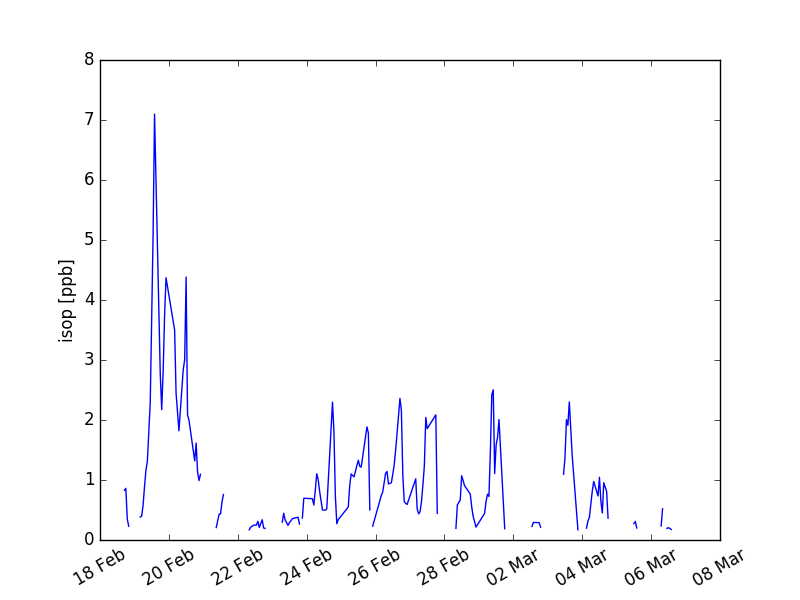
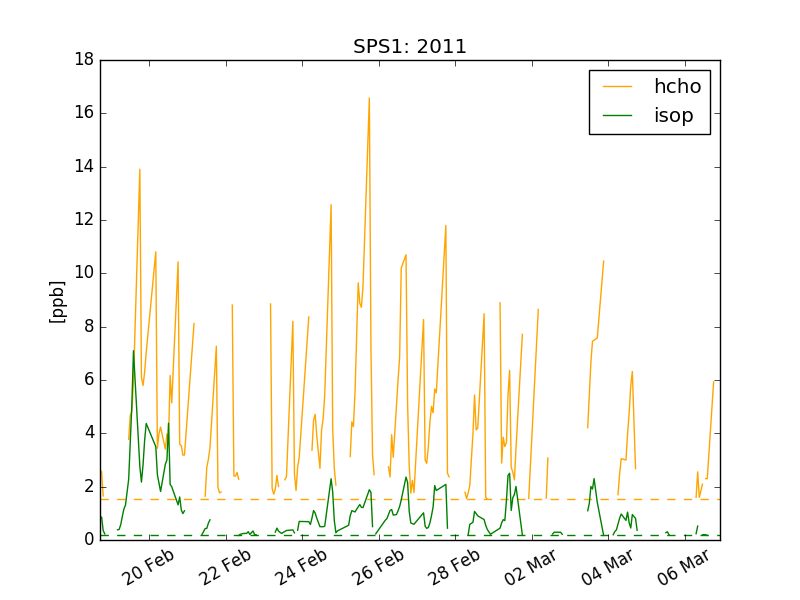
Updated SPS plots, now does SPS2

diff --git a/classes/campaign.py b/classes/campaign.py
@@ -48,15 +48,15 @@ class campaign:
         self.hcho_detection_limit=np.NaN
         self.isop_detection_limit=np.NaN
 
-    def read_SPS1(self):
+    def read_SPS(self, number=1):
         '''
-            Read the sps 1 dataset
+            Read the sps1 or sps2 dataset
             # Measurements are reported in local time (UTC+10)
             # units are unlisted in the doi
         '''
 
         # TODO: remove ../ when not testing any more
-        self.fpath='../Data/campaigns/SPS1/SPS1_PTRMS.csv'
+        self.fpath='../Data/campaigns/SPS%d/SPS%d_PTRMS.csv'%(number,number)
         data=fio.read_csv(self.fpath)
         # PTRMS names the columns with m/z ratio, we use
         #   HCHO = 31, ISOP = 69
@@ -64,13 +64,14 @@ class campaign:
         i_key='m/z 69'
 
         # First row is detection limits
-
         self.hcho_detection_limit=float(data[h_key][0])
         self.isop_detection_limit=float(data[i_key][0])
-        # second row is empty
-        # data begins at third row, last row is empty
-        hcho=np.array(data[h_key][2:-1])
-        isop=np.array(data[i_key][2:-1])
+        
+        # second row is empty in sps1
+        # last row is empty
+        start=[1,2][number==1]
+        hcho=np.array(data[h_key][start:-1])
+        isop=np.array(data[i_key][start:-1])
 
         # convert from strings to floats
         hcho[hcho=='<mdl'] = 'NaN'
@@ -78,8 +79,9 @@ class campaign:
         isop[isop=='<mdl'] = 'NaN'
         self.isop = isop.astype(np.float)
 
+        self.dates=[]
         # Convert strings to dates:
-        for date in data['Timestamp'][2:-1]:
+        for date in data['Timestamp'][start:-1]:
             #if date == '':
             #    self.dates.append(np.NaN)
             #else:
@@ -91,7 +93,7 @@ class campaign:
         #self.dates=[datetime.strptime('%d/%m/%Y %H',d) for d in dates]
 
         #print(data)
-    def plot_series(self,pname):
+    def plot_series(self,title,pname):
 
         dates=self.dates
 
@@ -99,14 +101,19 @@ class campaign:
             data=getattr(self,key)
             dlim=getattr(self,key+'_detection_limit')
             #plot_time_series(datetimes,values,ylabel=None,xlabel=None, pname=None, legend=False, title=None, xtickrot=30, dfmt='%Y%m', **pltargs)
-            pp.plot_time_series(dates, data, ylabel='[ppb]', dfmt='%d %b', label=key,color=c)
+            pp.plot_time_series(dates, data, dfmt='%d %b', label=key,color=c)
             plt.plot([dates[0],dates[-1]], [dlim,dlim], color=c, linestyle='--')
-
+            
+        plt.ylabel('[%s]'%self.hcho_units)
+        plt.title(title)
+        plt.legend()
         plt.savefig(pname)
         print("Saved %s"%pname)
-
+        plt.close()
 
 if __name__=='__main__':
-    sps1=campaign()
-    sps1.read_SPS1()
-    sps1.plot_series('sps1.png')
+    sps=campaign()
+    sps.read_SPS(1)
+    sps.plot_series('SPS1: 2011','sps1.png')
+    sps.read_SPS(2)
+    sps.plot_series('SPS2: 2012','sps2.png')
